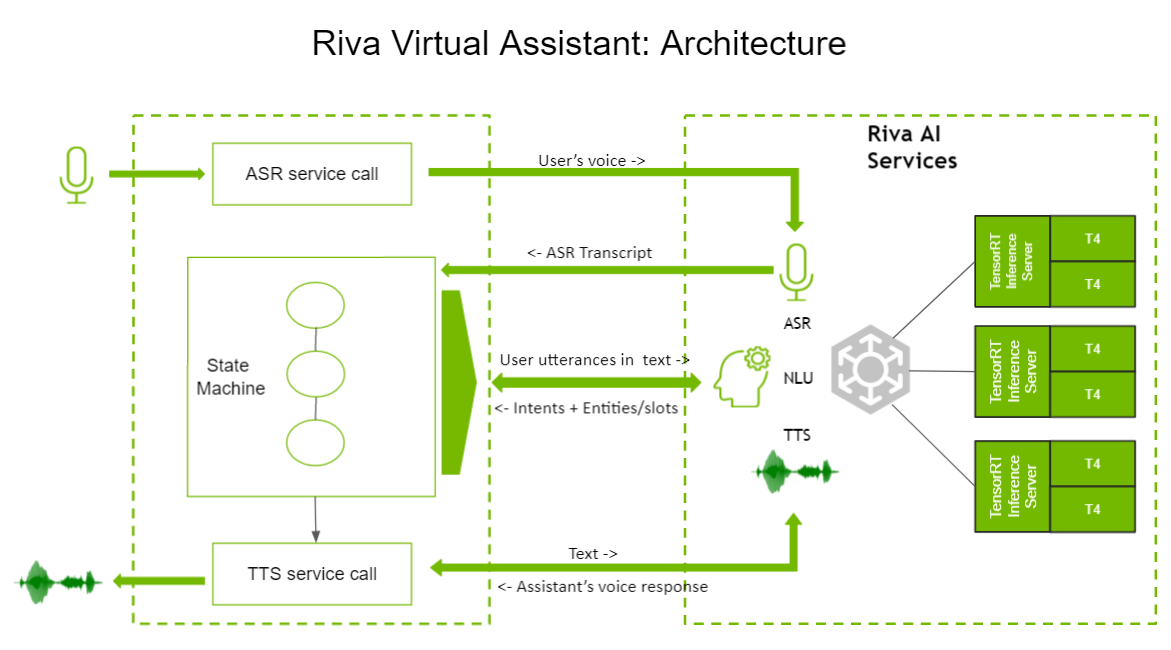
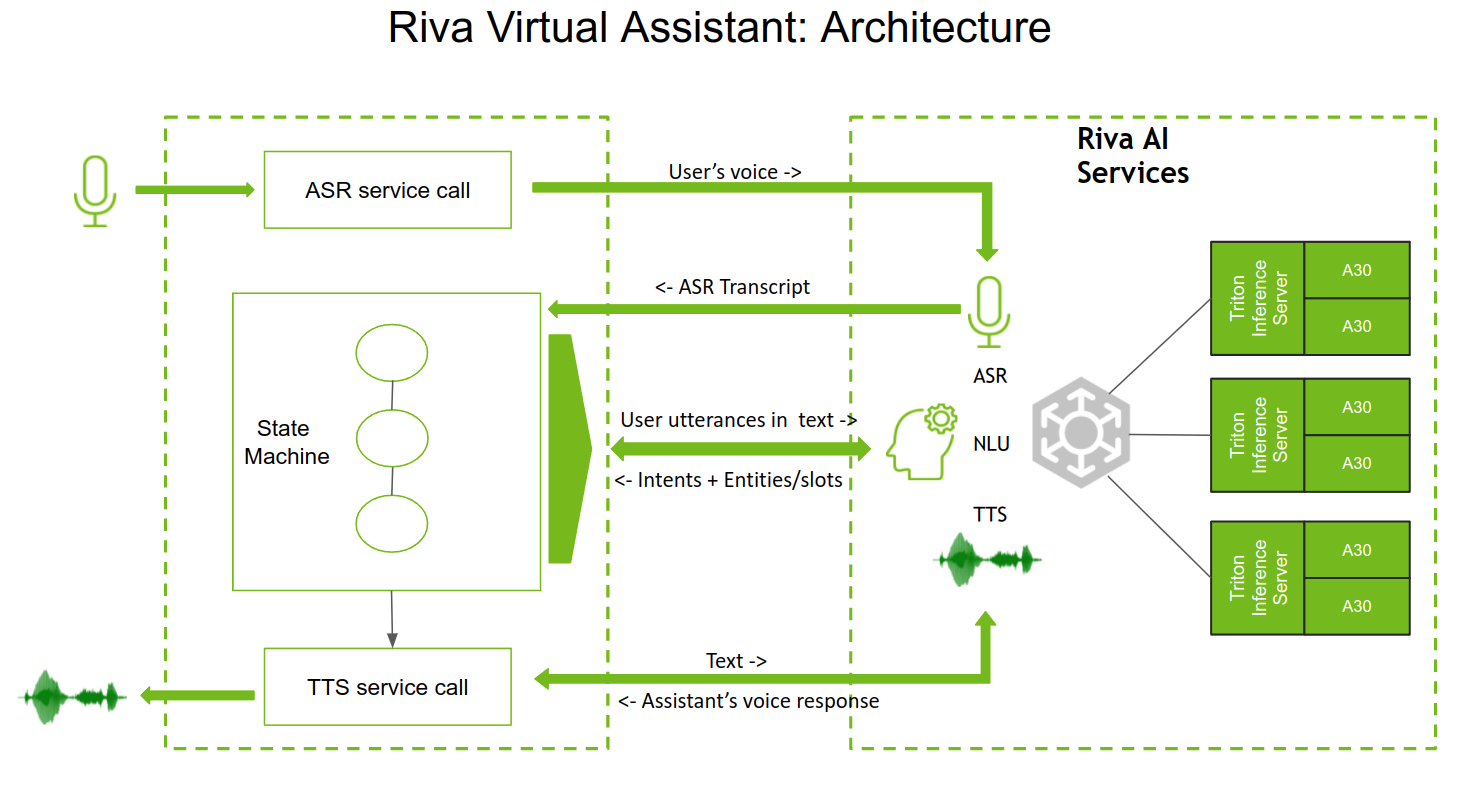
Update Weather VA architecture diagram

diff --git a/virtual-assistant/README.md b/virtual-assistant/README.md
@@ -4,8 +4,6 @@
 
 The Virtual Assistant sample demonstrates how to use Riva AI Services, specifically ASR, NLP, and TTS, to build a simple but complete conversational AI application. It demonstrates receiving input through speech from the user, interpreting the query using an intention recognition and slot-filling approach, computing a response, and speaking this back to the user in a natural voice.
 
-You can find more information about the Riva Weather Chatbot and how to run it [here](https://docs.nvidia.com/deeplearning/riva/user-guide/docs/samples/weather.html).
-
 <img src="./img/va-framework.png" alt="virtual-assistant architecture" width="800"/>
 
 This sample implements a dialog system with a state machine-based dialog state management approach, and using the intent/slot paradigm
